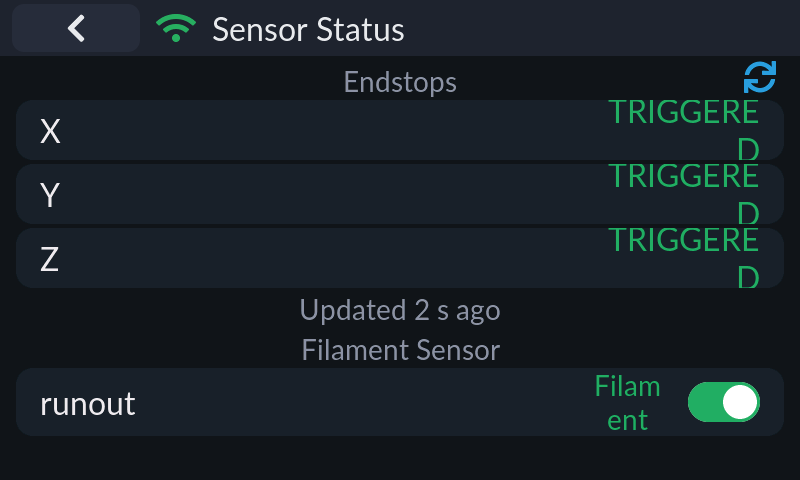
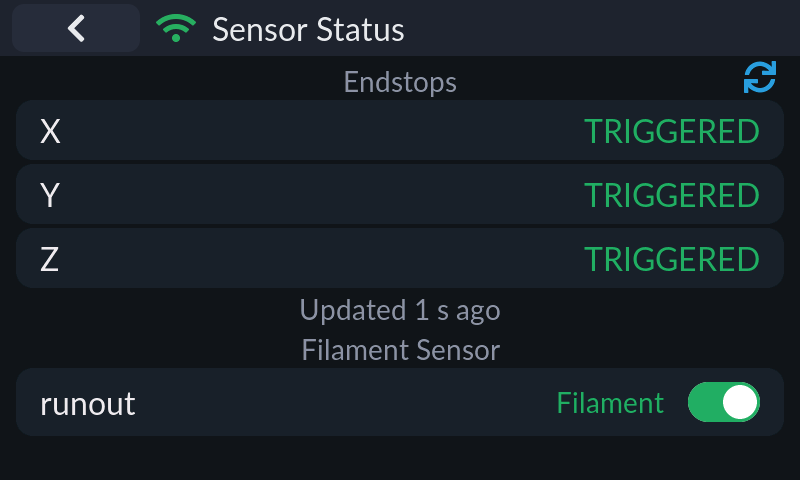
fix(ui): stop sensor state values wrapping in wide languages
The endstop and filament-sensor value labels had fixed widths sized for
2-3 CJK chars; English TRIGGERED/Filament (and FR/IT equivalents) exceed
them at every scale and wrapped mid-word. Drop the fixed widths and let
the right-aligned labels auto-size instead. Re-shoot the sensors docs
capture.

Changed region(s): [[0.7188, 0.1875, 0.9688, 0.5938], [0.6875, 0.7812, 0.8438, 0.9062], [0.5, 0.625, 0.5312, 0.6562]]

diff --git a/src/ui/panels/panel_sensors.c b/src/ui/panels/panel_sensors.c
@@ -112,8 +112,8 @@ static lv_obj_t *create(void)
         lv_obj_t *k = theme_label(row, title, THEME_FONT_M, THEME_COL_TEXT);
         lv_obj_align(k, LV_ALIGN_LEFT_MID, ui_px(4), 0);
         lbl_endstop[i] = theme_label(row, "", THEME_FONT_M, THEME_COL_TEXT_DIM);
-        lv_obj_set_width(lbl_endstop[i], ui_px(80));
-        lv_obj_set_style_text_align(lbl_endstop[i], LV_TEXT_ALIGN_RIGHT, 0);
+        /* 不定宽：TR("触发") 在英文是 9 字符 "TRIGGERED"，定宽会在大字号档换行；
+           自适应宽度 + 右对齐即可锚在右缘（行内只有轴字母，空间充足） */
         lv_obj_align(lbl_endstop[i], LV_ALIGN_RIGHT_MID, -ui_px(4), 0);
         y += ui_px(32);
     }
@@ -143,8 +143,7 @@ static lv_obj_t *create(void)
             lv_obj_align(name, LV_ALIGN_LEFT_MID, ui_px(4), 0);
 
             lbl_fil_state[i] = theme_label(row, "", THEME_FONT_S, THEME_COL_TEXT_DIM);
-            lv_obj_set_width(lbl_fil_state[i], ui_px(36));
-            lv_obj_set_style_text_align(lbl_fil_state[i], LV_TEXT_ALIGN_CENTER, 0);
+            /* 同上不定宽："有料" 英文 "Filament" 8 字符，定宽 ui_px(36) 必换行 */
             lv_obj_align(lbl_fil_state[i], LV_ALIGN_RIGHT_MID, -ui_px(52), 0);
 
             sw_fil[i] = lv_switch_create(row);
